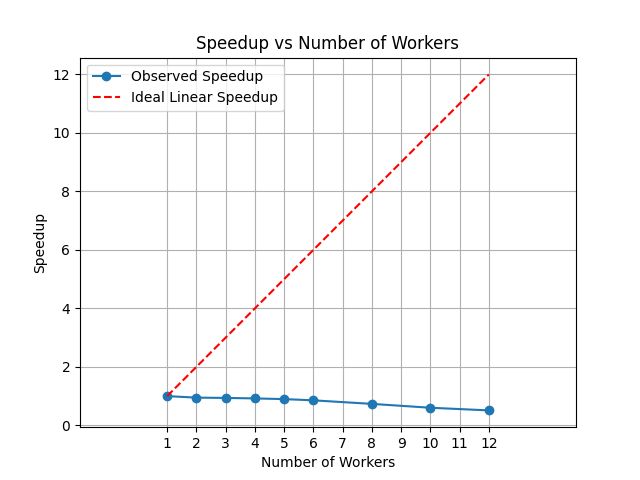
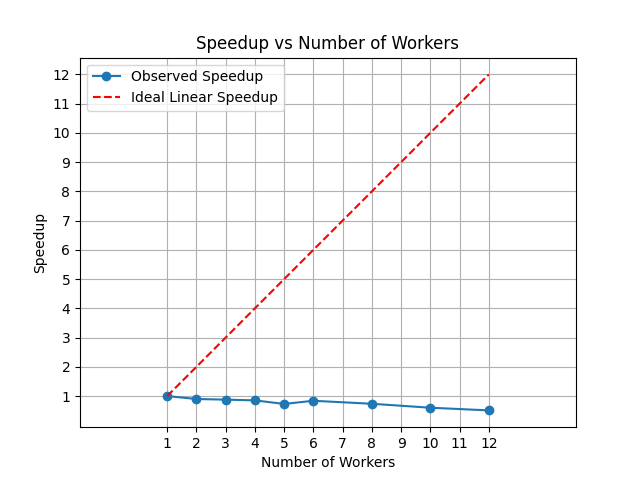
Add nouvelle étude scalabilité

diff --git a/TP4/assignments/Assignment102.java b/TP4/assignments/Assignment102.java
@@ -25,7 +25,7 @@ class PiMonteCarlo {
 
 	public PiMonteCarlo(int i, int iProcessors) {
 		this.nAtomSuccess = new AtomicInteger(0);
-		this.nThrows = i / iProcessors;
+		this.nThrows = i;
 		this.value = 0;
 		this.nProcessors = iProcessors;
 	}
@@ -56,7 +56,6 @@ public class Assignment102 {
 		System.out.println("Approx value:" + value);
 		System.out.println("Difference to exact value of pi: " + (value - Math.PI));
 		System.out.println("Error: " + (value - Math.PI) / Math.PI * 100 + " %");
-		System.out.println("Available processors: " + Runtime.getRuntime().availableProcessors());
 		System.out.println("Time Duration: " + (stopTime - startTime) + "ms");
 		try {
 			FileWriter writer = new FileWriter("out-assignments102-mac.txt", true);

diff --git a/TP4/Pi.java b/TP4/Pi.java
@@ -16,7 +16,6 @@ import java.util.concurrent.Future;
 public class Pi {
 	public static void main(String[] args) throws Exception {
 		long total = 0;
-		// 10 workers, 50000 iterations each
 		total = new Master().doRun(12000000, Integer.parseInt(args[0]));
 		System.out.println("total from Master = " + total);
 	}
@@ -36,7 +35,7 @@ class Master {
 		// Create a collection of tasks
 		List<Callable<Long>> tasks = new ArrayList<Callable<Long>>(); // collection de tache qui renvoie un résultat
 		for (int i = 0; i < numWorkers; ++i) {
-			tasks.add(new Worker(totalCount / numWorkers));
+			tasks.add(new Worker(totalCount));
 		}
 
 		// Run them and receive a collection of Futures

diff --git a/TP4/assignments/speedup.py b/TP4/assignments/speedup.py
@@ -33,7 +33,8 @@ speedup = [T1 / Tp for Tp in average_times]
 plt.figure()
 plt.plot(workers, speedup, marker='o', label='Observed Speedup')
 plt.plot(workers, workers, 'r--', label='Ideal Linear Speedup')  # Courbe idéale en pointillé
-plt.xticks(range(1, 13)) 
+plt.xticks(range(1, 13))
+plt.yticks(range(1, 13))
 plt.xlabel('Number of Workers')
 plt.ylabel('Speedup')
 plt.title('Speedup vs Number of Workers')

diff --git a/TP4/speedup.py b/TP4/speedup.py
@@ -33,6 +33,7 @@ plt.figure()
 plt.plot(workers, speedup, marker='o', label='Observed Speedup')
 plt.plot(workers, workers, 'r--', label='Ideal Linear Speedup')  # Courbe idéale en pointillé
 plt.xticks(range(1, 13)) 
+plt.yticks(range(1, 13)) 
 plt.xlabel('Number of Workers')
 plt.ylabel('Speedup')
 plt.title('Speedup vs Number of Workers')

diff --git a/Rapport.md b/Rapport.md
@@ -24,7 +24,7 @@
   - [Analyse et Résolution](#analyse-et-résolution)
   - [Ce que j'ai appris](#ce-que-jai-appris)
   - [Conclusion](#conclusion)
-- [TP4 : Concepts avancés et Monte Carlo](#tp4--concepts-avancés-et-monte-carlo)
+- [TP4 (part1): Concepts avancés et Monte Carlo](#tp4--concepts-avancés-et-monte-carlo)
   - [Master / Worker](#master--worker)
   - [Future](#future)
   - [Accélération (Speedup)](#accélération-speedup)
@@ -33,7 +33,7 @@
   - [Work Stealing Pool](#work-stealing-pool)
   - [Application de l'API Concurrent](#application-de-lapi-concurrent)
   - [Analyse des performances de Monte Carlo](#analyse-des-performances-de-monte-carlo)
-- [TP4 : Programmation distribuée](#tp4--programmation-distribuée)
+- [TP4 (part2): Programmation distribuée](#programmation-distribuée)
   - [Master / Worker en distribué](#master--worker-en-distribué)
   - [Analyse des Sockets JAVA](#analyse-des-sockets-java)
     - [Analyse MasterSocket.java](#analyse-mastersocketjava)
@@ -249,7 +249,7 @@ La méthode de Monte Carlo peut bénéficier d'une bonne scalabilité grâce à 
 
 ---
 
-## TP4 : Programmation distribuée
+## Programmation distribuée
 
 ### Master / Worker en distribué
 Dans un environnement distribué, le **master** envoie des messages aux **workers** via un réseau. Les workers exécutent les tâches en parallèle et renvoient les résultats au master.
@@ -327,10 +327,40 @@ Pour calculer π et établir les communications Master/Worker, les changements s
 - Chaque **Worker** génère des points aléatoires et compte ceux qui tombent dans un quart de cercle.
 - Les résultats sont renvoyés au **Master**, qui les agrège pour estimer π.
 
-### Étude de la scalabilité
+### Étude de la Scalabilité
 
 Pour étudier la scalabilité, nous avons choisi un nombre d'essais suffisamment grand pour mesurer le temps d'exécution de manière significative. Nous avons testé avec plusieurs workers et comparé les résultats.
 
-Un script a été mis en place pour réaliser un graphique de la scalabilité forte de `Pi.java`, en modifiant le nombre de workers. Nous avons observé qu'au-delà de 8 cœurs, le speedup diminue en raison des limitations matérielles de la machine.
+#### Pi.java
 
-**TODO :** Étudier la scalabilité faible de `Pi.java`, ainsi que la scalabilité forte et faible de `assignements102`.
+Un script a été mis en place pour réaliser un graphique de la scalabilité forte de Pi.java, en modifiant le nombre de workers. Nous avons observé qu'au-delà de 8 cœurs, le speedup diminue en raison des limitations matérielles de la machine.
+
+- **Parallélisation basée sur un pool de threads fixe :**
+  Le programme utilise `Executors.newFixedThreadPool(numWorkers)` pour créer un pool de `numWorkers` threads, ce qui permet un contrôle efficace du parallélisme en limitant le nombre de threads actifs.
+
+- **Répartition des tâches :**
+  Chaque worker (`Callable<Long>`) exécute une fraction du nombre total d’itérations et renvoie un résultat partiel. L’agrégation des résultats se fait via `Future.get()`, qui agit comme une **barrière implicite** (les résultats sont collectés une fois que tous les threads ont terminé).
+
+- **Avantages de cette approche :**
+  - Les tâches sont bien équilibrées entre les threads (`totalCount / numWorkers` par worker).
+  - L'utilisation de `invokeAll()` garantit que tous les threads travaillent en parallèle avant de récupérer les résultats.
+  - Contrairement à `Assignment102.java`, le programme **réduit le nombre de tâches** en regroupant plusieurs itérations par worker, évitant ainsi la surcharge liée à la gestion d’un trop grand nombre de petites tâches.
+
+- **Limites observées :**
+  - Au-delà de 8 threads, le **speedup diminue** en raison de la saturation des ressources CPU et des coûts de synchronisation.
+  - L’appel `Future.get()` bloque le thread principal jusqu'à ce que tous les workers aient terminé, ce qui peut créer un goulot d’étranglement si certains threads prennent plus de temps que d’autres.
+  - L'utilisation de `Random` par chaque thread peut provoquer une contention si plusieurs threads génèrent des nombres aléatoires en parallèle.
+
+#### Assignments102
+
+Le script précédent a été réutilisé pour `Assignments102.java`. Ce paradigme fonctionne différemment et les mesures révèlent qu'il est moins efficace. Le speedup de la scalabilité forte du code `Assignments102` est proche de la scalabilité faible de `Pi.java`.
+
+- **Trop de tâches créées (1 tâche par point simulé) :**
+  Chaque simulation de point (x, y) est soumise individuellement au pool de threads, ce qui entraîne une surcharge importante sur le gestionnaire de tâches. La création et la gestion d'un grand nombre de threads très courts génèrent un overhead significatif et réduisent l'efficacité globale du programme.
+
+- **Problème de synchronisation sur `AtomicInteger` :**
+  L'utilisation de `AtomicInteger.incrementAndGet()` pour compter les points dans le cercle crée une contention mémoire entre threads. Chaque mise à jour étant atomique, cela ralentit l'accès concurrentiel. Une alternative plus performante serait l'utilisation de `LongAdder`, qui réduit les conflits en répartissant les mises à jour sur plusieurs variables internes.
+
+Globalement, `Pi.java` est mieux parallélisé que `Assignment102.java`, car il minimise la surcharge de création de threads et utilise un **modèle de travail bien équilibré** pour exploiter efficacement les ressources CPU.
+
+TODO : faire un graphe d'erreur TP / P
